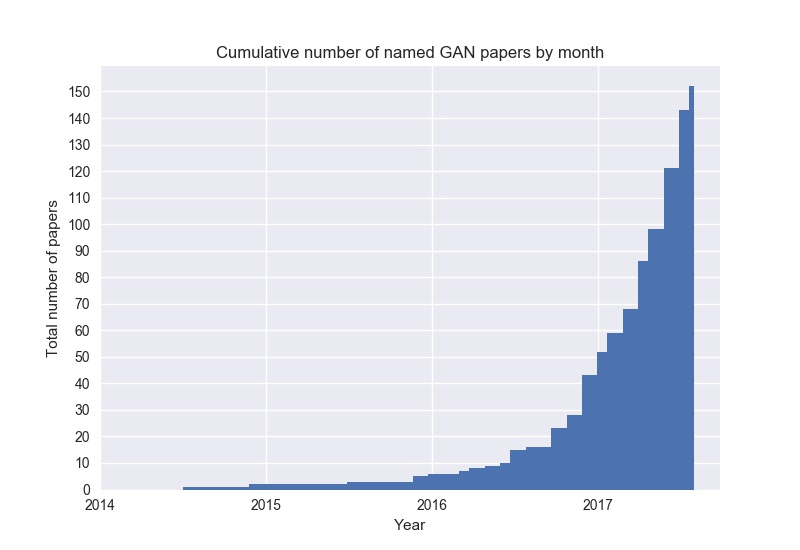
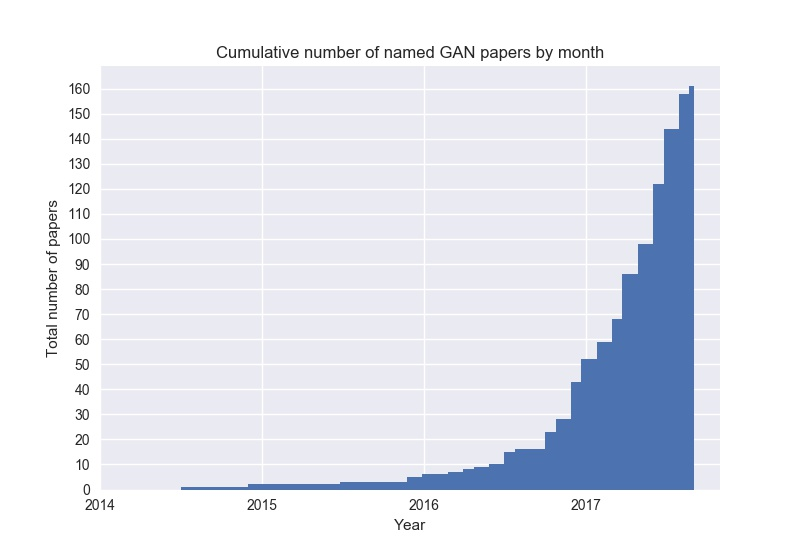
add 3D-IWGAN, ABC-GAN, ED//GAN, DM-GAN, LD-GAN, LeGAN, MMGAN, VRAL, ...
Added new GANs:
* 3D Improved Wasserstein GAN (3D-IWGAN)
* Adaptive Blur and Control GAN (ABC-GAN)
* contrast-GAN
* Controllable GAN (CGAN)
* dual motion GAN (DM-GAN)
* decoupled encoding-decoding GAN (ED//GAN)
* Linear Discriminant GAN (LD-GAN)
* Likelihood Estimation for Generative Adversarial Networks (LeGAN)
* Manifold Matching GAN (MMGAN)
* Variance Regularizing Adversarial Learning (VRAL)

diff --git a/timeline.py b/timeline.py
@@ -10,7 +10,7 @@ data = np.array([2000 + int(year) + int(month) / 12 for year, month in data_stri
 
 plt.hist(data, 100, cumulative="True")
 plt.xticks(range(2014, 2018))
-plt.yticks(np.arange(0,160, 10))
+plt.yticks(np.arange(0,170, 10))
 plt.title("Cumulative number of named GAN papers by month")
 plt.xlabel("Year")
 plt.ylabel("Total number of papers")

diff --git a/README.md b/README.md
@@ -13,6 +13,8 @@ Contributions are welcome. Add links through pull requests or create an issue to
 Check out [Deep Hunt](https://deephunt.in) - my weekly AI newsletter for this repo as [blogpost](https://medium.com/deep-hunt/the-gan-zoo-79597dc8c347) and follow me on [Twitter](https://www.twitter.com/hindupuravinash).
 
 * 3D-GAN - [Learning a Probabilistic Latent Space of Object Shapes via 3D Generative-Adversarial Modeling](https://arxiv.org/abs/1610.07584)
+* 3D-IWGAN - [Improved Adversarial Systems for 3D Object Generation and Reconstruction](https://arxiv.org/abs/1707.09557)
+* ABC-GAN - [ABC-GAN: Adaptive Blur and Control for improved training stability of Generative Adversarial Networks](https://drive.google.com/file/d/0B3wEP_lEl0laVTdGcHE2VnRiMlE/view)
 * AC-GAN - [Conditional Image Synthesis With Auxiliary Classifier GANs](https://arxiv.org/abs/1610.09585)
 * acGAN - [Face Aging With Conditional Generative Adversarial Networks](https://arxiv.org/abs/1702.01983)
 * AdaGAN - [AdaGAN: Boosting Generative Models](https://arxiv.org/abs/1701.02386v1)
@@ -23,7 +25,7 @@ Check out [Deep Hunt](https://deephunt.in) - my weekly AI newsletter for this re
 * ALI - [Adversarially Learned Inference](https://arxiv.org/abs/1606.00704)
 * AlignGAN - [AlignGAN: Learning to Align Cross-Domain Images with Conditional Generative Adversarial Networks](https://arxiv.org/abs/1707.01400)
 * α-GAN - [Variational Approaches for Auto-Encoding Generative Adversarial Networks](https://arxiv.org/abs/1706.04987)
-* AM-GAN - [Generative Adversarial Nets with Labeled Data by Activation Maximization](https://arxiv.org/abs/1703.02000)
+* AM-GAN - [Activation Maximization Generative Adversarial Nets](https://arxiv.org/abs/1703.02000)
 * AnoGAN - [Unsupervised Anomaly Detection with Generative Adversarial Networks to Guide Marker Discovery](https://arxiv.org/abs/1703.05921v1)
 * ARAE - [Adversarially Regularized Autoencoders for Generating Discrete Structures](https://arxiv.org/abs/1706.04223)
 * ARDA - [Adversarial Representation Learning for Domain Adaptation](https://arxiv.org/abs/1707.01217)
@@ -41,9 +43,11 @@ Check out [Deep Hunt](https://deephunt.in) - my weekly AI newsletter for this re
 * CatGAN - [Unsupervised and Semi-supervised Learning with Categorical Generative Adversarial Networks](https://arxiv.org/abs/1511.06390v2)
 * CC-GAN - [Semi-Supervised Learning with Context-Conditional Generative Adversarial Networks](https://arxiv.org/abs/1611.06430v1)
 * CGAN - [Conditional Generative Adversarial Nets](https://arxiv.org/abs/1411.1784)
+* CGAN - [Controllable Generative Adversarial Network](https://arxiv.org/abs/1708.00598)
 * Chekhov GAN - [An Online Learning Approach to Generative Adversarial Networks](https://arxiv.org/abs/1706.03269)
 * CoGAN - [Coupled Generative Adversarial Networks](https://arxiv.org/abs/1606.07536v2)
 * Context-RNN-GAN - [Contextual RNN-GANs for Abstract Reasoning Diagram Generation](https://arxiv.org/abs/1609.09444)
+* contrast-GAN - [Generative Semantic Manipulation with Contrasting GAN](https://arxiv.org/abs/1708.00315)
 * Cramér GAN - [The Cramer Distance as a Solution to Biased Wasserstein Gradients](https://arxiv.org/abs/1705.10743)
 * crVAE-GAN - [Channel-Recurrent Variational Autoencoders](https://arxiv.org/abs/1706.03729)
 * CS-GAN - [Improving Neural Machine Translation with Conditional Sequence Generative Adversarial Nets](https://arxiv.org/abs/1703.04887)
@@ -55,6 +59,7 @@ Check out [Deep Hunt](https://deephunt.in) - my weekly AI newsletter for this re
 * DeLiGAN - [DeLiGAN : Generative Adversarial Networks for Diverse and Limited Data](https://arxiv.org/abs/1706.02071)
 * DiscoGAN - [Learning to Discover Cross-Domain Relations with Generative Adversarial Networks](https://arxiv.org/abs/1703.05192v1)
 * DistanceGAN - [One-Sided Unsupervised Domain Mapping](https://arxiv.org/abs/1706.00826)
+* DM-GAN - [Dual Motion GAN for Future-Flow Embedded Video Prediction](https://arxiv.org/abs/1708.00284)
 * DR-GAN - [Representation Learning by Rotating Your Faces](https://arxiv.org/abs/1705.11136)
 * DRAGAN - [How to Train Your DRAGAN](https://arxiv.org/abs/1705.07215)
 * DSP-GAN - [Depth Structure Preserving Scene Image Generation](https://arxiv.org/abs/1706.00212)
@@ -62,6 +67,7 @@ Check out [Deep Hunt](https://deephunt.in) - my weekly AI newsletter for this re
 * DualGAN - [DualGAN: Unsupervised Dual Learning for Image-to-Image Translation](https://arxiv.org/abs/1704.02510v1)
 * Dualing GAN - [Dualing GANs](https://arxiv.org/abs/1706.06216)
 * EBGAN - [Energy-based Generative Adversarial Network](https://arxiv.org/abs/1609.03126v4)
+* ED//GAN - [Stabilizing Training of Generative Adversarial Networks through Regularization](https://arxiv.org/abs/1705.09367)
 * EGAN - [Enhanced Experience Replay Generation for Efficient Reinforcement Learning](https://arxiv.org/abs/1705.08245)
 * f-GAN - [f-GAN: Training Generative Neural Samplers using Variational Divergence Minimization](https://arxiv.org/abs/1606.00709)
 * FF-GAN - [Towards Large-Pose Face Frontalization in the Wild](https://arxiv.org/abs/1704.06244)
@@ -89,6 +95,8 @@ Check out [Deep Hunt](https://deephunt.in) - my weekly AI newsletter for this re
 * l-GAN - [Representation Learning and Adversarial Generation of 3D Point Clouds](https://arxiv.org/abs/1707.02392)
 * LAGAN - [Learning Particle Physics by Example: Location-Aware Generative Adversarial Networks for Physics Synthesis](https://arxiv.org/abs/1701.05927)
 * LAPGAN - [Deep Generative Image Models using a Laplacian Pyramid of Adversarial Networks](https://arxiv.org/abs/1506.05751)
+* LD-GAN - [Linear Discriminant Generative Adversarial Networks](https://arxiv.org/abs/1707.07831)
+* LeGAN - [Likelihood Estimation for Generative Adversarial Networks](https://arxiv.org/abs/1707.07530)
 * LR-GAN - [LR-GAN: Layered Recursive Generative Adversarial Networks for Image Generation](https://arxiv.org/abs/1703.01560v1)
 * LS-GAN - [Loss-Sensitive Generative Adversarial Networks on Lipschitz Densities](https://arxiv.org/abs/1701.06264v5)
 * LSGAN - [Least Squares Generative Adversarial Networks](https://arxiv.org/abs/1611.04076v3)
@@ -103,6 +111,7 @@ Check out [Deep Hunt](https://deephunt.in) - my weekly AI newsletter for this re
 * MGAN - [Precomputed Real-Time Texture Synthesis with Markovian Generative Adversarial Networks](https://arxiv.org/abs/1604.04382)
 * MIX+GAN - [Generalization and Equilibrium in Generative Adversarial Nets (GANs)](https://arxiv.org/abs/1703.00573v3)
 * MMD-GAN - [MMD GAN: Towards Deeper Understanding of Moment Matching Network](https://arxiv.org/abs/1705.08584)
+* MMGAN - [MMGAN: Manifold Matching Generative Adversarial Network for Generating Images](https://arxiv.org/abs/1707.08273)
 * MoCoGAN - [MoCoGAN: Decomposing Motion and Content for Video Generation](https://arxiv.org/abs/1707.04993)
 * MPM-GAN - [Message Passing Multi-Agent GANs](https://arxiv.org/abs/1612.01294)
 * MV-BiGAN - [Multi-view Generative Adversarial Networks](https://arxiv.org/abs/1611.02019v1)
@@ -160,6 +169,7 @@ Check out [Deep Hunt](https://deephunt.in) - my weekly AI newsletter for this re
 * VGAN - [Generating Videos with Scene Dynamics](https://arxiv.org/abs/1609.02612)
 * VGAN - [Generative Adversarial Networks as Variational Training of Energy Based Models](https://arxiv.org/abs/1611.01799)
 * ViGAN - [Image Generation and Editing with Variational Info Generative Adversarial Networks](https://arxiv.org/abs/1701.04568v1)
+* VRAL - [Variance Regularizing Adversarial Learning](https://arxiv.org/abs/1707.00309)
 * WaterGAN - [WaterGAN: Unsupervised Generative Network to Enable Real-time Color Correction of Monocular Underwater Images](https://arxiv.org/abs/1702.07392v1)
 * WGAN - [Wasserstein GAN](https://arxiv.org/abs/1701.07875v2)
 * WGAN-GP - [Improved Training of Wasserstein GANs](https://arxiv.org/abs/1704.00028)
